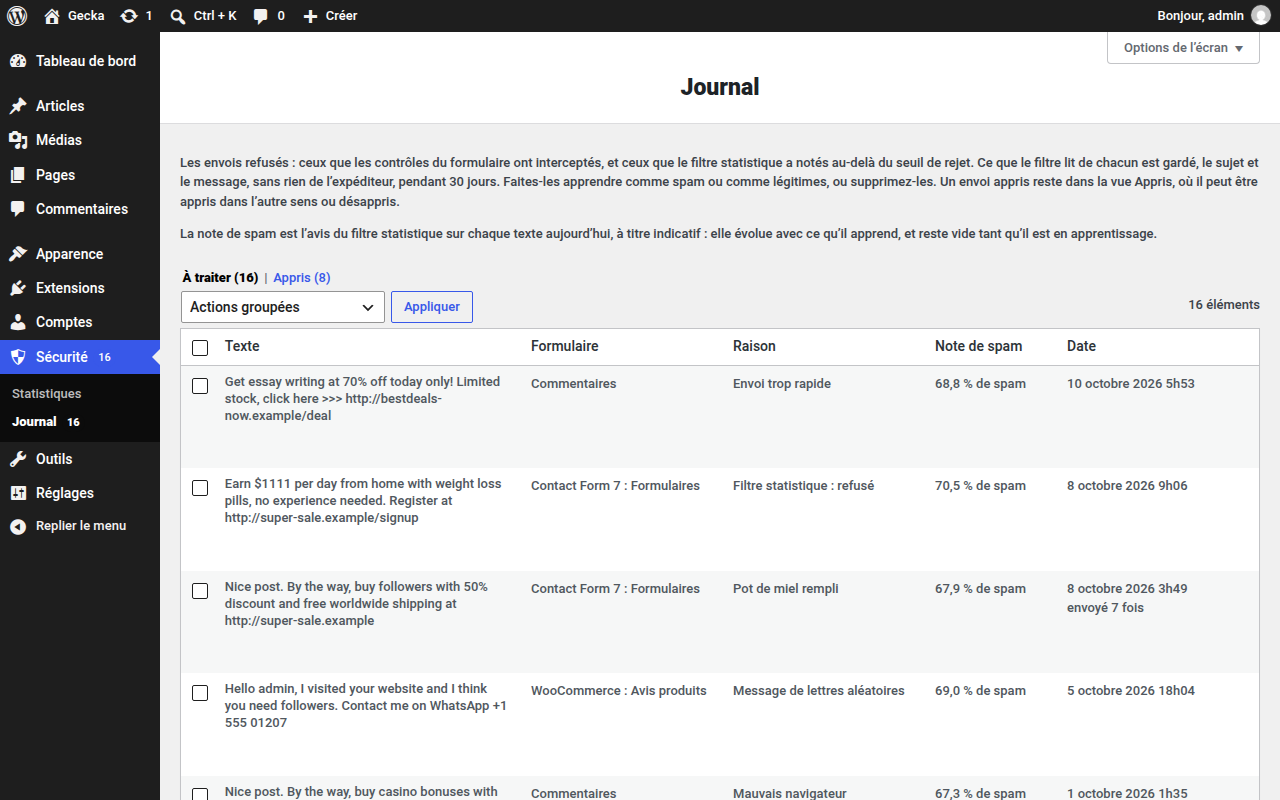
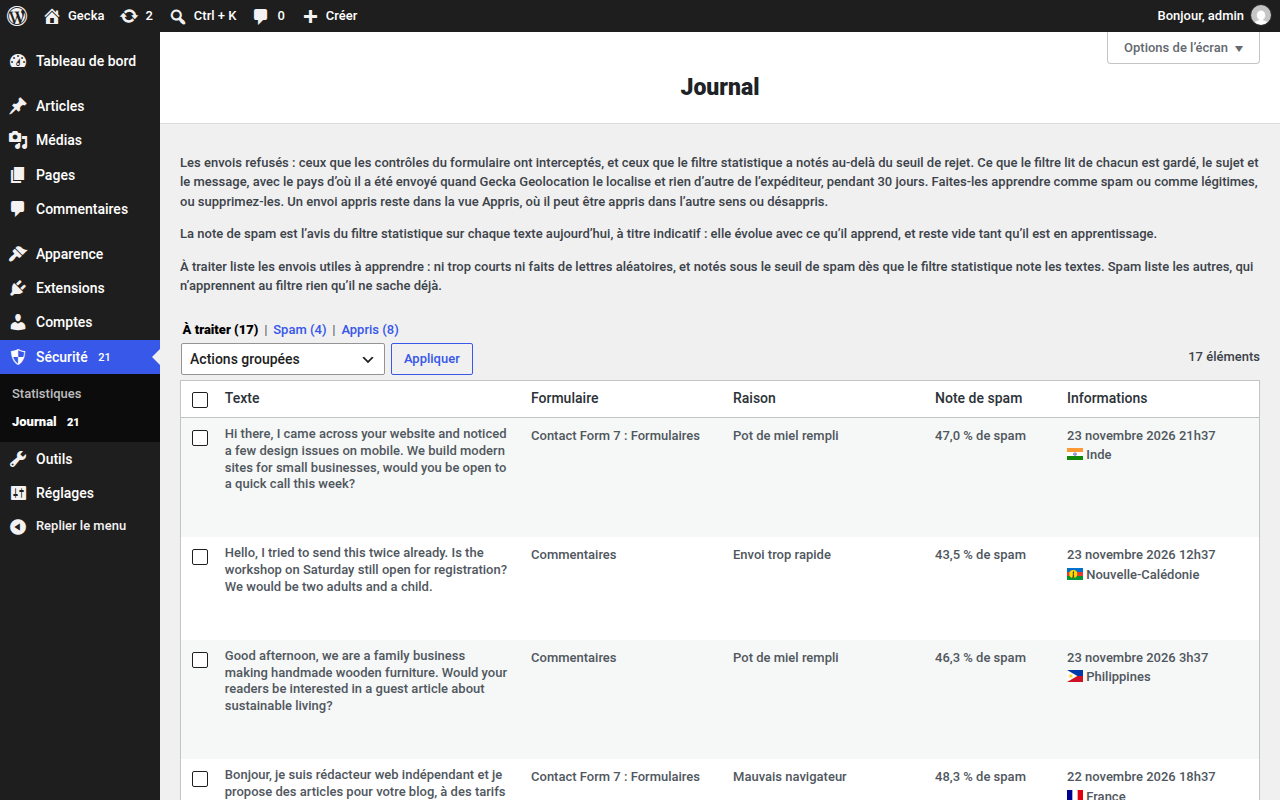
docs(readme): refresh the screenshot of the Journal

diff --git a/bin/screenshots/seed.php b/bin/screenshots/seed.php
@@ -140,14 +140,32 @@ use Gecka\WP\Plugin\Antispam\StatisticalFilter;
 
     $surfaces = ['comments', 'comments', 'comments', 'contact_form_7', 'contact_form_7', 'woocommerce_reviews'];
     $reasons = [Guard::HONEYPOT, Guard::HONEYPOT, Guard::FILTER_REJECT, Guard::RANDOM_TEXT, Guard::TOO_FAST, Guard::SHORT, Guard::BAD_BROWSER];
+    $countries = ['RU', 'CN', 'US', 'VN', 'IN', 'BR', 'NG', 'UA', 'ID', 'DE', 'PK'];
     $journal = $plugin->journal();
     $ids = [];
 
     foreach (array_slice($spam, 0, 24) as $i => $text) {
-        $journal->record($surfaces[$i % count($surfaces)], $reasons[$i % count($reasons)], $text);
+        $journal->record($surfaces[$i % count($surfaces)], $reasons[$i % count($reasons)], $text, $countries[$i % count($countries)]);
         $when = gmdate('Y-m-d H:i:s', time() - $draw(1, 29) * DAY_IN_SECONDS - $draw(0, 86399));
         $wpdb->update(Journal::table(), ['created' => $when, 'updated' => $when, 'hits' => $i % 5 === 0 ? $draw(2, 9) : 1], ['hash' => md5($text)]);
         $ids[] = (int) $wpdb->get_var($wpdb->prepare('SELECT id FROM ' . Journal::table() . ' WHERE hash = %s', md5($text)));
+    }
+
+    // Refused texts of the last days the filter knows little of: canvassing
+    // unlike the spam it learnt, and a person caught by the delay. They fill
+    // the To review view, the one the screen opens on.
+    $unfamiliar = [
+        [Guard::HONEYPOT, 'contact_form_7', 'IN', 'Hi there, I came across your website and noticed a few design issues on mobile. We build modern sites for small businesses, would you be open to a quick call this week?'],
+        [Guard::TOO_FAST, 'comments', 'NC', 'Hello, I tried to send this twice already. Is the workshop on Saturday still open for registration? We would be two adults and a child.'],
+        [Guard::HONEYPOT, 'comments', 'PH', 'Good afternoon, we are a family business making handmade wooden furniture. Would your readers be interested in a guest article about sustainable living?'],
+        [Guard::BAD_BROWSER, 'contact_form_7', 'FR', 'Bonjour, je suis rédacteur web indépendant et je propose des articles pour votre blog, à des tarifs raisonnables. Puis-je vous envoyer quelques exemples ?'],
+        [Guard::TOKEN, 'woocommerce_reviews', 'GB', 'I run a small podcast about travel in the Pacific and would love to feature your story in an episode. Let me know if you would be available next month.'],
+    ];
+
+    foreach ($unfamiliar as $i => [$reason, $surface, $country, $text]) {
+        $journal->record($surface, $reason, $text, $country);
+        $when = gmdate('Y-m-d H:i:s', time() - $i * 9 * HOUR_IN_SECONDS - 3 * HOUR_IN_SECONDS);
+        $wpdb->update(Journal::table(), ['created' => $when, 'updated' => $when], ['hash' => md5($text)]);
     }
 
     // The filter: past its thresholds, with a rotation behind it, from the
